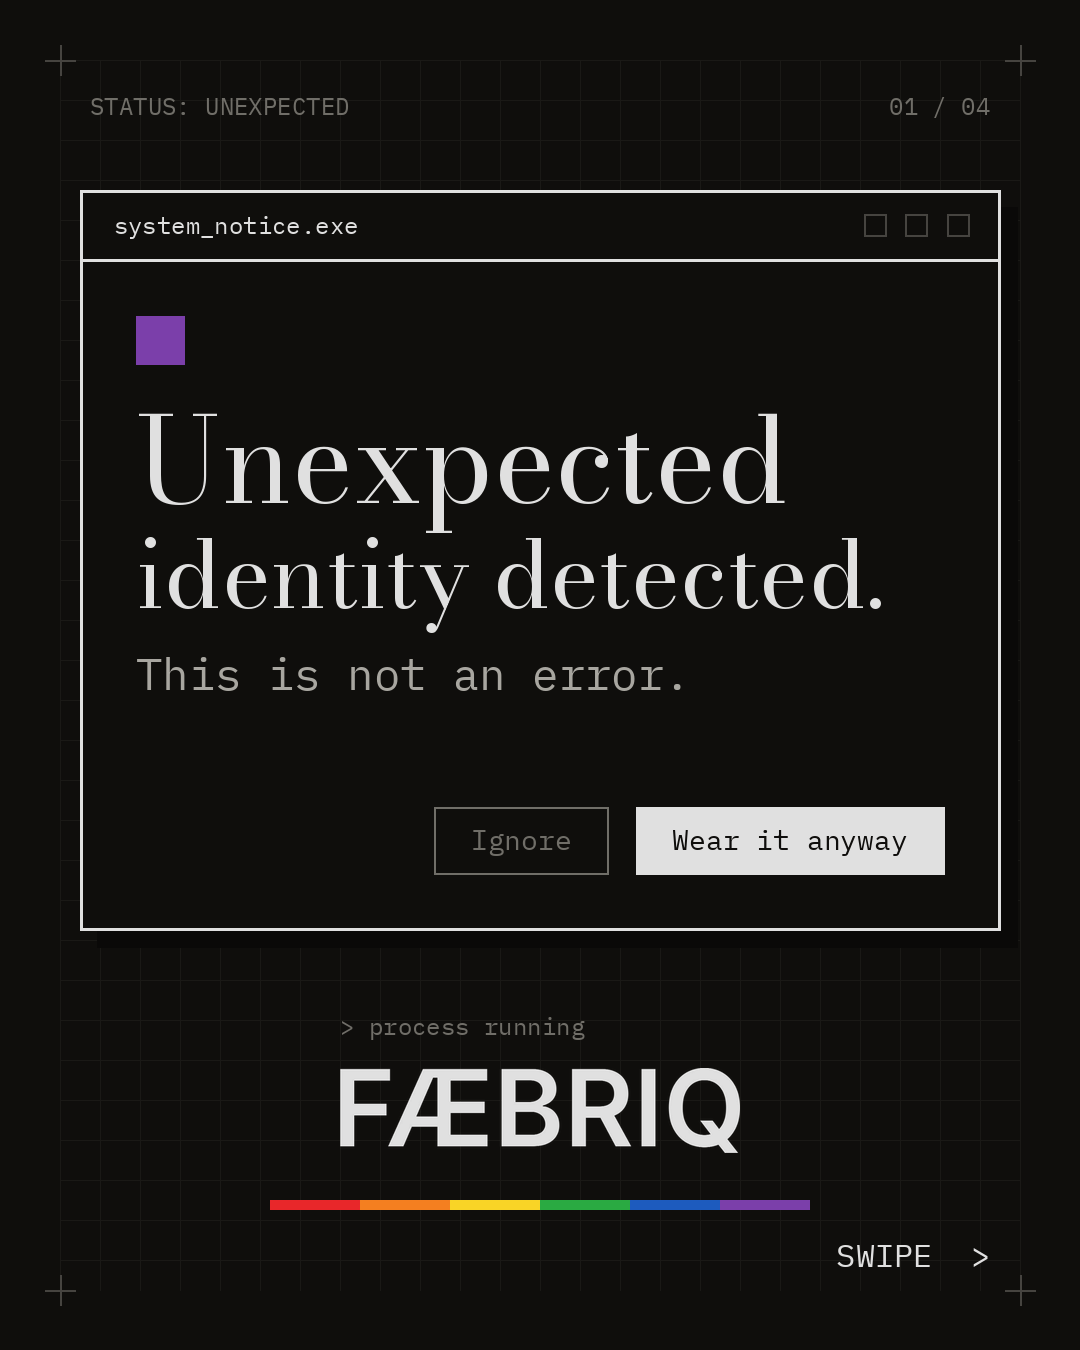
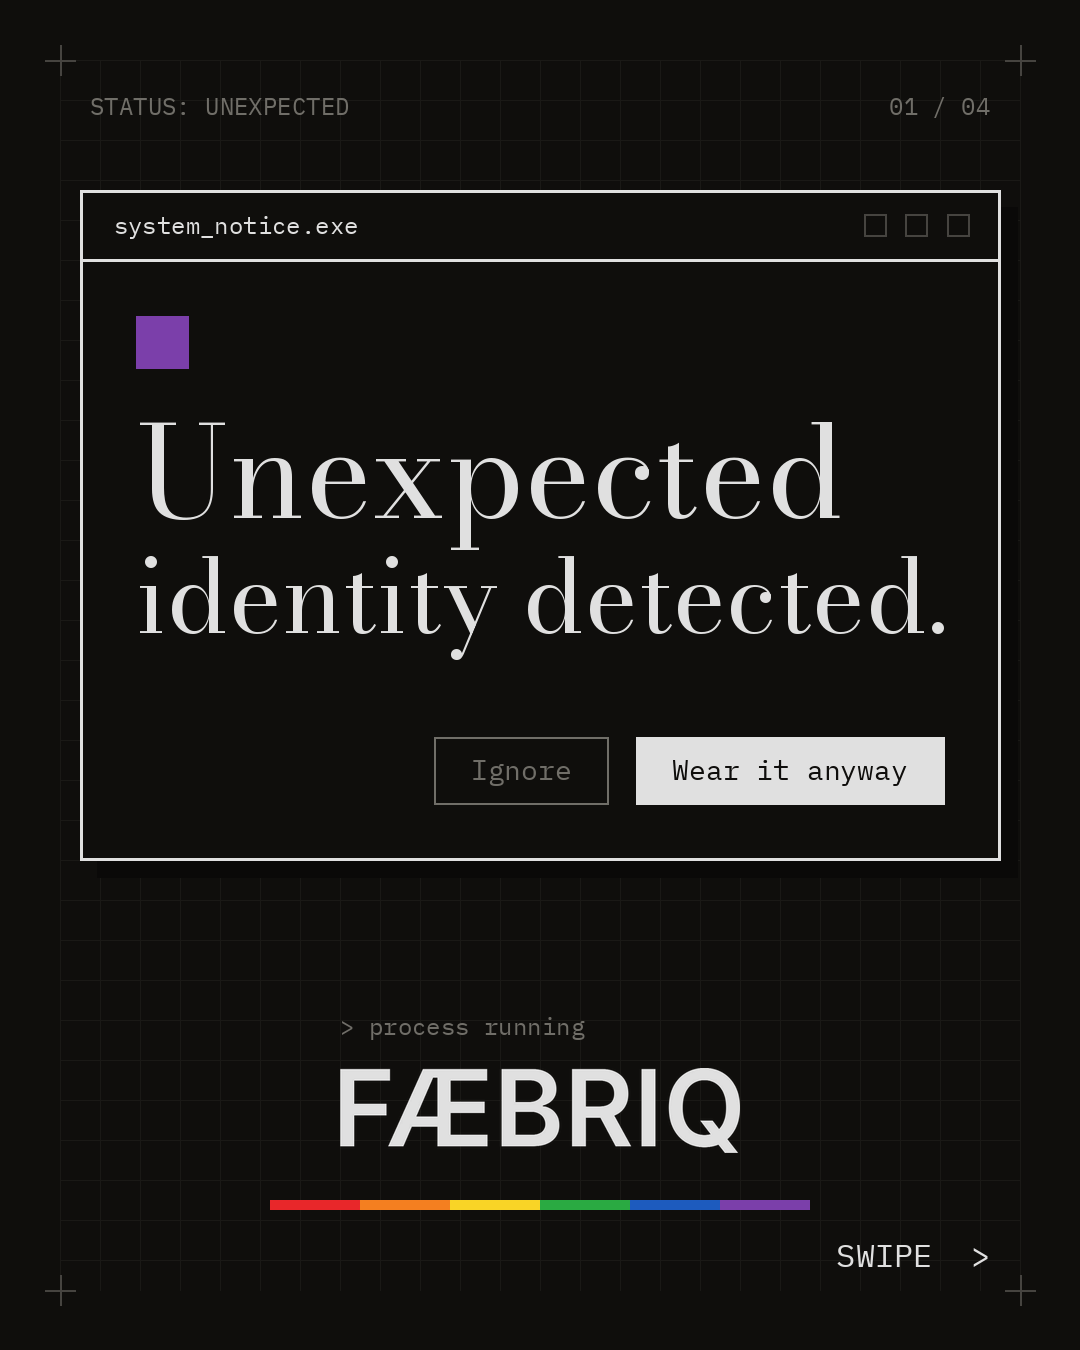
Carousel critique fixes: reorder, single payoff, cap copy, link in bio
Claude-Session: https://claude.ai/code/session_01DKdkXjMN51BwsHku4W6Q4t

Changed region(s): [[0.1222, 0.3111, 0.8861, 0.6533], [0.275, 0.4978, 0.3056, 0.5289], [0.1528, 0.2489, 0.1833, 0.28]]

diff --git a/assets/campaign/awareness-2026-10/cap.py b/assets/campaign/awareness-2026-10/cap.py
@@ -3,7 +3,7 @@
     python3 assets/campaign/awareness-2026-10/cap.py
 
 Sources live in product/src (front 1600px native, left/right 2048px). Outputs:
-product/cap-{front,left,right}.png (transparent) and social/carousel-02-product-1080x1350.png.
+product/cap-{front,left,right}.png (transparent) and social/carousel-03-product-1080x1350.png.
 """
 import os
 
@@ -11,8 +11,8 @@ import numpy as np
 from PIL import Image, ImageDraw, ImageFilter
 from scipy import ndimage as ndi
 
-from render import BG, FG, NOTE, TAG, mono, runs
-from social import canvas, slide, OUT
+from render import BG, FG, NOTE, TAG, frame, mono, runs
+from social import OUT
 
 HERE = os.path.dirname(os.path.abspath(__file__))
 SRC = os.path.join(HERE, 'product', 'src')
@@ -69,27 +69,26 @@ def glow(size, center, radius, color, peak=1.0):
     return Image.fromarray((base + (col - base) * k[..., None]).astype(np.uint8), 'RGB')
 
 
-def s02(front):
+def s03(front):
     """Product slide: cap hero on a lifted near-black, label, shipping line."""
     f = mono(24); W, H, M = 1080, 1350, 60; L = M + 30; R = W - M - 30
-    bg = glow((W, H), (W / 2, 520), 640, (84, 83, 80))
-    im, d = canvas(W, H, M, 40)  # draws grid on a flat BG; re-lay the grid over the glow
-    base = bg.copy(); gd = ImageDraw.Draw(base)
+    base = glow((W, H), (W / 2, 520), 640, (84, 83, 80))
     grid = Image.new('RGBA', (W, H), (0, 0, 0, 0)); gdraw = ImageDraw.Draw(grid)
-    from render import frame
     frame(gdraw, W, H, M, 40)
     base.paste(grid, (0, 0), grid)
     d = ImageDraw.Draw(base)
     runs(d, L, 90, [('STATUS: UNEXPECTED', NOTE)], f)
-    runs(d, 0, 90, [('02 / 04', NOTE)], f, right=R)
+    runs(d, 0, 90, [('03 / 04', NOTE)], f, right=R)
     cap = rim_light(front)
     tw = 700; cap = cap.resize((tw, round(cap.height * tw / cap.width)), Image.LANCZOS)
     # soft contact shadow
     sh = Image.new('RGBA', (W, H), (0, 0, 0, 0)); sd = ImageDraw.Draw(sh)
-    cx, cy = W // 2, 270 + cap.height - 20
+    cx, cy = W // 2, 225 + cap.height - 20
     sd.ellipse([cx - 270, cy - 18, cx + 270, cy + 42], fill=(0, 0, 0, 190))
     base.paste(sh.filter(ImageFilter.GaussianBlur(26)), (0, 0), sh.filter(ImageFilter.GaussianBlur(26)))
-    base.paste(cap, ((W - tw) // 2, 270), cap)
+    base.paste(cap, ((W - tw) // 2, 225), cap)
+    f3 = mono(32); t = '> new hardware detected'
+    d.text(((W - d.textlength(t, font=f3)) / 2, 985), t, font=f3, fill=NOTE)
     ft = mono(54); t = 'FÆBRIQ CAP'
     d.text(((W - d.textlength(t, font=ft)) / 2, 1040), t, font=ft, fill=FG)
     f2 = mono(32); parts = [('US + CA  ·  ', NOTE), ('FREE SHIPPING', FG)]
@@ -104,5 +103,5 @@ if __name__ == '__main__':
     for name in ('front', 'left', 'right'):
         cuts[name] = cutout(os.path.join(SRC, f'cap-{name}.jpg'))
         cuts[name].save(os.path.join(PROD, f'cap-{name}.png'), optimize=True)
-    s02(cuts['front']).save(os.path.join(OUT, 'carousel-02-product-1080x1350.png'), optimize=True)
+    s03(cuts['front']).save(os.path.join(OUT, 'carousel-03-product-1080x1350.png'), optimize=True)
     print('ok')

diff --git a/assets/campaign/awareness-2026-10/social.py b/assets/campaign/awareness-2026-10/social.py
@@ -2,8 +2,7 @@
 
     python3 assets/campaign/awareness-2026-10/social.py
 
-Reuses render.py's palette, dialog and lockup. Carousel slide 02 (product) is
-held until the Manus mockups land; files are numbered so it drops straight in.
+Reuses render.py's palette, dialog and lockup. Carousel order: 01 hook, 02 message, 03 product (cap.py), 04 CTA.
 """
 import os
 
@@ -56,17 +55,17 @@ def slide(n, total):
 
 
 def s01():
-    """Hook: the dialog, with a swipe cue."""
+    """Hook: the dialog asks, no answer yet (slide 02 answers), with a swipe cue."""
     im, d, W, H, M, L, R = slide(1, 4)
-    dialog(d, (M + 20, 190, W - M - 20, 930), 118, 28, square_left=False, tag=0.373)
+    dialog(d, (M + 20, 190, W - M - 20, 860), 128, 28, square_left=False, tag=None)
     lockup(im, d, W / 2, 1200, 400, 24, center=True)
     runs(d, 0, H - M - 56, [('SWIPE  >', FG)], mono(32), right=R)
     return im
 
 
-def s03():
-    """Message: the reframe, in terminal output."""
-    im, d, W, H, M, L, R = slide(3, 4)
+def s02():
+    """Message: the answer to slide 01, in terminal output."""
+    im, d, W, H, M, L, R = slide(2, 4)
     d.rectangle([L, 250, L + 56, 306], fill=ACC)
     d.text((L, 360), 'This is', font=bod(150), fill=FG)
     d.text((L, 360 + 150 * 1.12), 'not an error.', font=bod(150), fill=FG)
@@ -80,7 +79,7 @@ def s03():
 def s04():
     """CTA: wordmark, the one button, shipping."""
     im, d, W, H, M, L, R = slide(4, 4)
-    lockup(im, d, W / 2, 700, 560, 26, center=True)
+    lockup(im, d, W / 2, 700, 560, 26, center=True, prompt='> process complete')
     c = 40; bw = d.textlength('Wear it anyway', font=mono(c)) + c * 2.6
     button(d, W / 2 - bw / 2, 830, 'Wear it anyway', c)
     f = mono(36); t = 'faebriq.com'
@@ -88,12 +87,14 @@ def s04():
     f2 = mono(32); parts = [('US + CA  ·  ', NOTE), ('FREE SHIPPING', FG)]
     x = W / 2 - sum(d.textlength(p, font=f2) for p, _ in parts) / 2
     runs(d, x, 1070, parts, f2)
+    t = '> link in bio'
+    d.text((W / 2 - d.textlength(t, font=f2) / 2, 1140), t, font=f2, fill=FG)
     return im
 
 
 if __name__ == '__main__':
     os.makedirs(OUT, exist_ok=True)
     square().save(os.path.join(OUT, 'square-1080x1080.png'), optimize=True)
-    for name, fn in [('carousel-01-hook', s01), ('carousel-03-message', s03), ('carousel-04-cta', s04)]:
+    for name, fn in [('carousel-01-hook', s01), ('carousel-02-message', s02), ('carousel-04-cta', s04)]:
         fn().save(os.path.join(OUT, f'{name}-1080x1350.png'), optimize=True)
     print('ok')

diff --git a/assets/campaign/awareness-2026-10/render.py b/assets/campaign/awareness-2026-10/render.py
@@ -70,7 +70,8 @@ def dialog(d, box, L1, chrome, square_left=True, tag=0.305):
     # phrase lockup: line 2 at 80% of line 1
     d.text((tx, ty), 'Unexpected', font=bod(L1), fill=FG)
     d.text((tx, ty + L1 * 1.12), 'identity detected.', font=bod(round(L1 * 0.8)), fill=FG)
-    d.text((tx, ty + L1 * 1.12 + L1 * 0.8 * 1.5), 'This is not an error.', font=mono(round(L1 * tag)), fill=TAG)
+    if tag:  # tag=None leaves the answer for a later slide
+        d.text((tx, ty + L1 * 1.12 + L1 * 0.8 * 1.5), 'This is not an error.', font=mono(round(L1 * tag)), fill=TAG)
     # buttons, right-aligned
     fb = mono(round(chrome * 1.0)); bh = round(chrome * 2.4); by = y1 - pad - bh
     xr = x1 - pad
@@ -84,7 +85,7 @@ def dialog(d, box, L1, chrome, square_left=True, tag=0.305):
         xr = xl - chrome
 
 
-def lockup(im, d, x, baseline_bar, ww, prompt_size, center=False):
+def lockup(im, d, x, baseline_bar, ww, prompt_size, center=False, prompt='> process running'):
     """Prompt + sans wordmark + 1.35x circuit bar. Bar's left edge sits at x (or centered on x)."""
     bw = ww * 1.35
     bx = x - bw / 2 if center else x
@@ -97,7 +98,7 @@ def lockup(im, d, x, baseline_bar, ww, prompt_size, center=False):
     for i, c in enumerate(CIRCUIT):
         d.rectangle([round(bx + i * cw), baseline_bar, round(bx + (i + 1) * cw) - 1, baseline_bar + bh], fill=c)
     # prompt shares the wordmark's left edge
-    d.text((wx, wy - prompt_size * 2.4), '> process running', font=mono(prompt_size), fill=NOTE)
+    d.text((wx, wy - prompt_size * 2.4), prompt, font=mono(prompt_size), fill=NOTE)
 
 
 def desktop():

diff --git a/CHANGELOG.md b/CHANGELOG.md
@@ -163,3 +163,4 @@ Slide 02 (product) held until Manus mockups land.
 2026/10/04 Social critique fixes: larger shipping/swipe/tagline text, slide 04 CTA now a button; render.py dialog() gained a tag-size option (hero unchanged).
 2026/10/05 Added handoff/MANUS_BRIEF_CAP_FRONT_2026-10-05.md: front-on cap shot brief (delivered angles clip the lockup).
 2026/10/05 Added cap.py: transparent cap cutouts (front/left/right) and carousel slide 02 (cap on lifted near-black with rim light). Carousel is now 4 of 4.
+2026/10/05 Carousel critique fixes: reordered to hook/message/cap/CTA, tagline cut from hook (answer lands on 02), cap slide line "> new hardware detected", CTA "> process complete" + "> link in bio".
